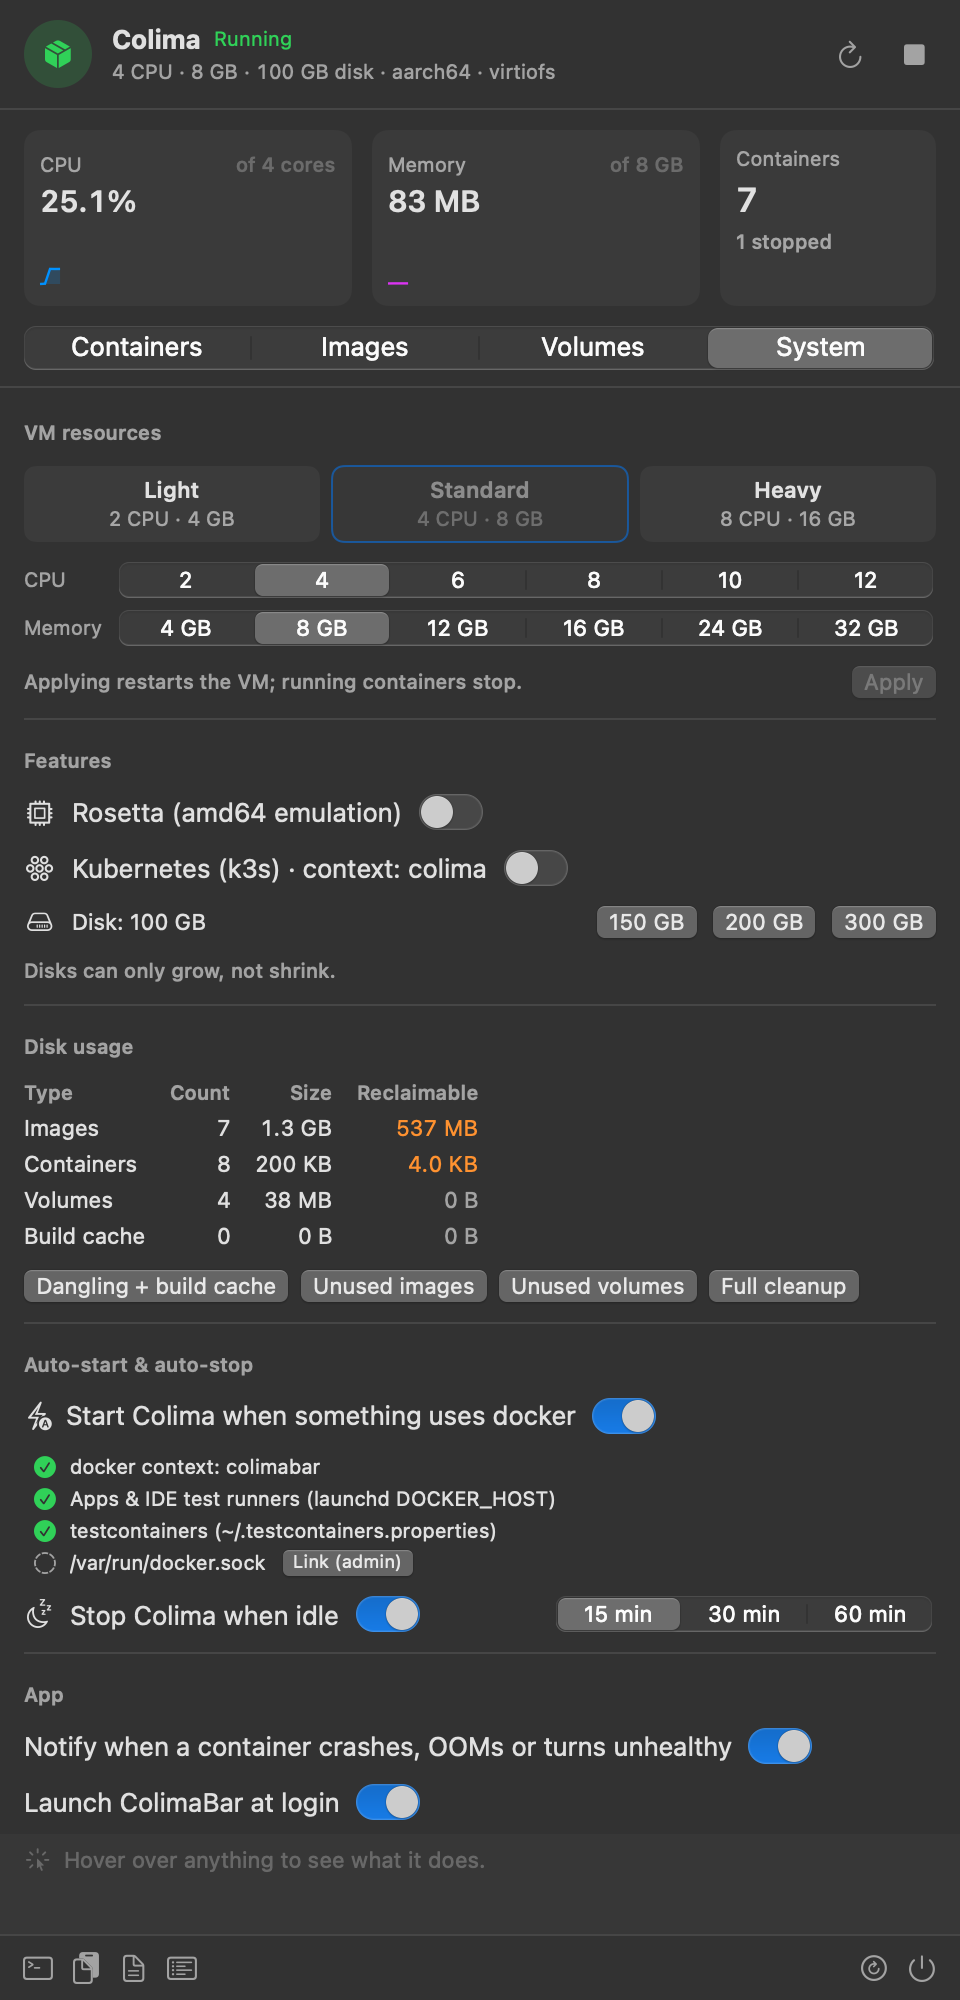
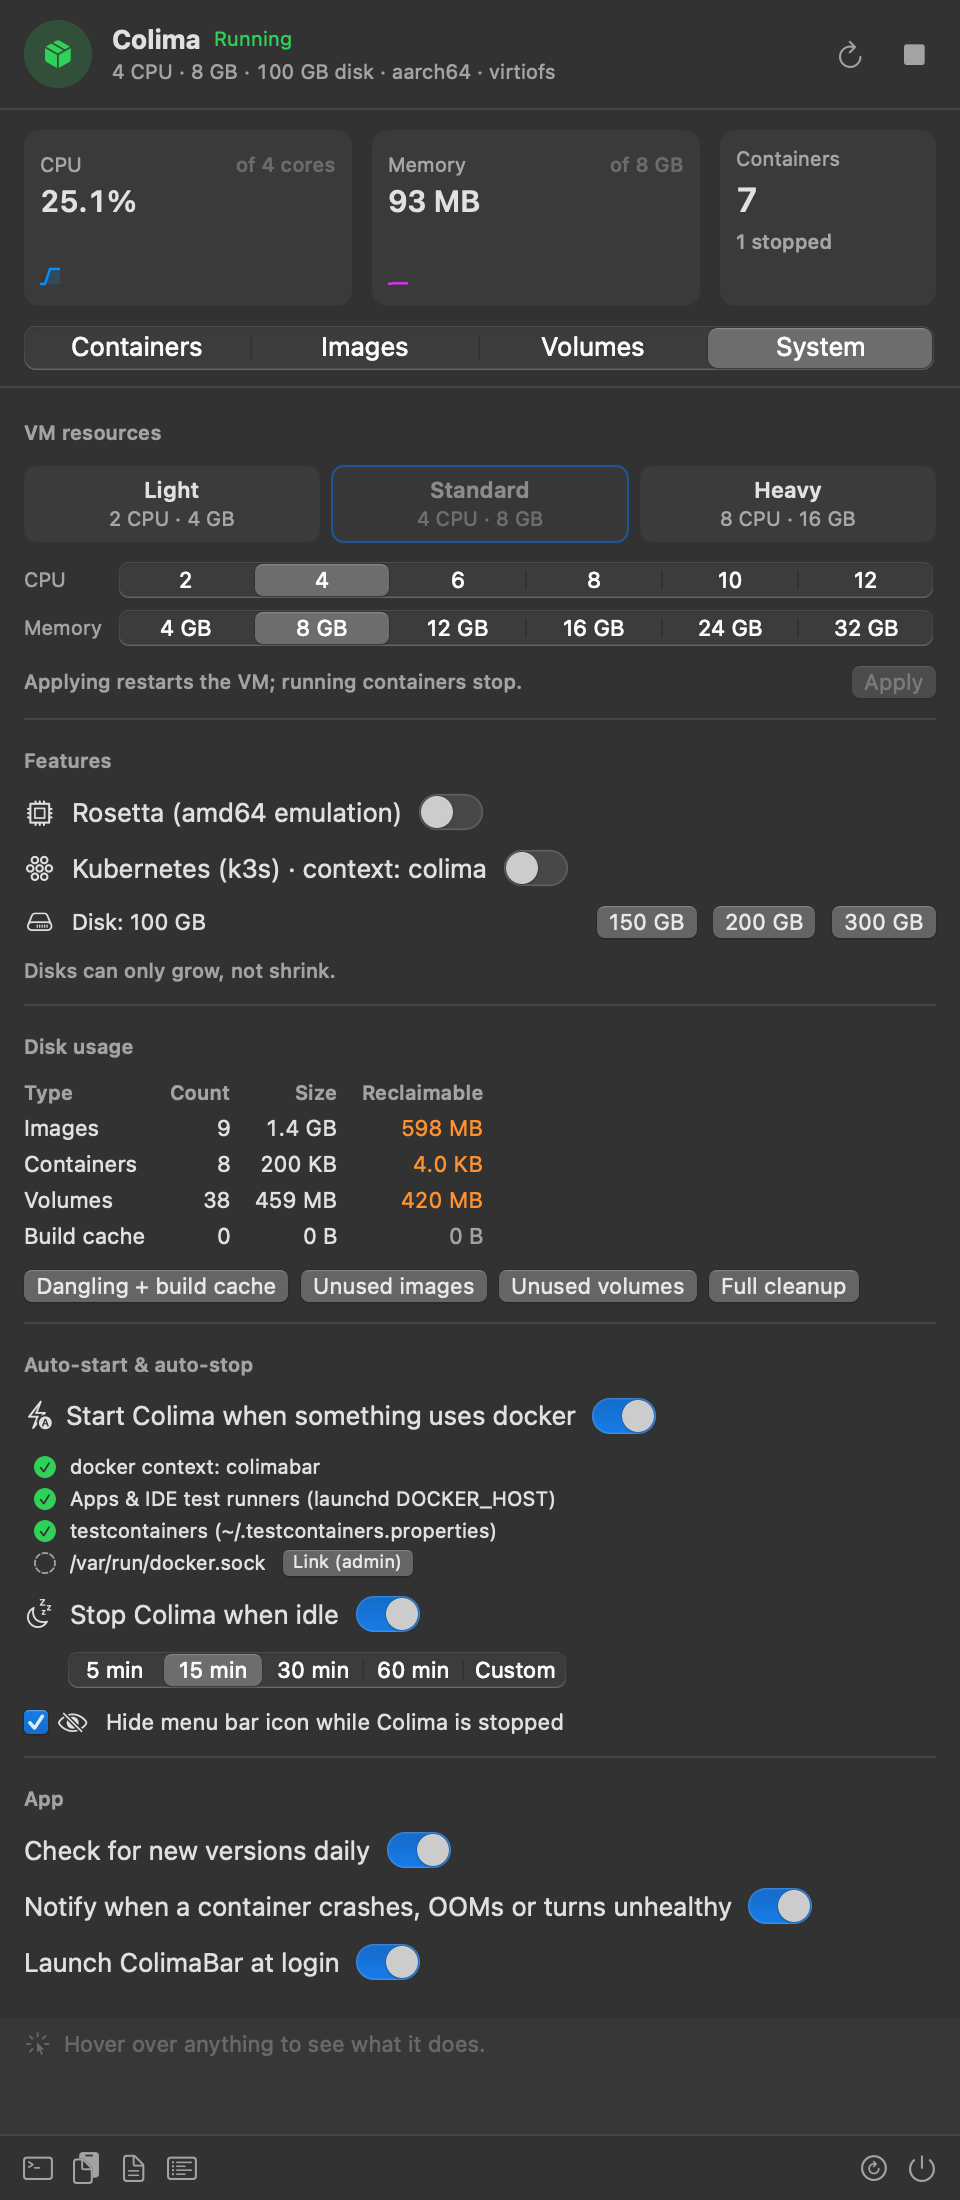
Refresh README screenshots; document update checks and new menu items
Snapshots render in an off-screen window that may be taller than the
screen, so a whole tab fits and no hover hint appears.

diff --git a/Sources/ColimaBar/App.swift b/Sources/ColimaBar/App.swift
@@ -142,6 +142,8 @@ final class AppDelegate: NSObject, NSApplicationDelegate, NSPopoverDelegate, NSW
             if let hs = ProcessInfo.processInfo.environment["COLIMABAR_SNAPSHOT_HEIGHT"], let h = Double(hs) {
                 window?.setContentSize(NSSize(width: 480, height: h))
             }
+            // Away from the mouse pointer, so no hover hint shows up in the shot.
+            window?.setFrameOrigin(NSPoint(x: -4000, y: -4000))
             DispatchQueue.main.asyncAfter(deadline: .now() + 6) { [weak self] in
                 if let v = self?.window?.contentView { self?.snapshot(v, to: args[i + 1]) }
                 NSApp.terminate(nil)
@@ -421,7 +423,7 @@ final class AppDelegate: NSObject, NSApplicationDelegate, NSPopoverDelegate, NSW
     private func showWindow() {
         popover.performClose(nil)
         if window == nil {
-            let w = NSWindow(contentRect: NSRect(x: 0, y: 0, width: 720, height: 760),
+            let w = (Self.isDebugRun ? SnapshotWindow.self : NSWindow.self).init(contentRect: NSRect(x: 0, y: 0, width: 720, height: 760),
                              styleMask: [.titled, .closable, .miniaturizable, .resizable],
                              backing: .buffered, defer: false)
             w.title = "Colima"
@@ -450,4 +452,10 @@ final class AppDelegate: NSObject, NSApplicationDelegate, NSPopoverDelegate, NSW
     func windowWillClose(_ n: Notification) { setWindowCounted(false) }
     func windowDidMiniaturize(_ n: Notification) { setWindowCounted(false) }
     func windowDidDeminiaturize(_ n: Notification) { setWindowCounted(true) }
+}
+
+/// Debug snapshots only: a window that may be taller than the screen, so a
+/// whole tab fits in one README screenshot.
+final class SnapshotWindow: NSWindow {
+    override func constrainFrameRect(_ frameRect: NSRect, to screen: NSScreen?) -> NSRect { frameRect }
 }

diff --git a/README.md b/README.md
@@ -24,18 +24,18 @@
 - **Live dashboard**: containers grouped by Compose project, health, ports, per-container CPU and memory, logs, images, volumes and VM settings in one popover.
 - **Quiet by default**: idles at ~0% CPU, can stop the VM when idle, and only notifies you when something actually breaks.
 
-Left-click the menu bar icon for the dashboard. Right-click for quick actions (start/stop, window, auto-start, launch at login, quit). Hover over anything for an explanation.
+Left-click the menu bar icon for the dashboard. Right-click for quick actions (start/stop, window, auto-start, launch at login, hide icon, check for updates, quit). Hover over anything for an explanation.
 
 ## Screenshots
 
 <table>
   <tr>
     <td width="50%"><img src="docs/screenshots/images.png" alt="Images tab: sizes, in-use badges, prune"></td>
-    <td width="50%"><img src="docs/screenshots/system.png" alt="System tab: VM resources, features, disk usage, auto-start and auto-stop"></td>
+    <td width="50%"><img src="docs/screenshots/system.png" alt="System tab: VM resources, features, disk usage, auto-start, auto-stop presets, hide icon, update check"></td>
   </tr>
   <tr>
     <td align="center"><b>Images</b>: sizes, what's in use, one-click prune</td>
-    <td align="center"><b>System</b>: VM presets, Rosetta, k3s, disk, auto-start and auto-stop</td>
+    <td align="center"><b>System</b>: VM presets, Rosetta, k3s, disk, auto-start, auto-stop and app settings</td>
   </tr>
   <tr>
     <td colspan="2"><img src="docs/screenshots/logs.png" alt="Log viewer with search, follow, timestamps and highlighted stderr"></td>
@@ -71,6 +71,7 @@ xattr -dr com.apple.quarantine ~/Applications/ColimaBar.app
 - **Alerts, failures only**: a container exits non-zero, is OOM-killed or turns unhealthy, with **View logs** and **Restart** buttons; or an action fails. Nothing for routine start/stop.
 - **Profiles**: if you have more than one Colima profile, a picker appears; otherwise it stays hidden
 - Starts at login and relaunches itself if it ever crashes. Single instance. ⌘R refresh, ⌘F filter.
+- Tells you once when a new version is out (checks GitHub daily; turn it off on the System tab), and shows a download button in the dashboard.
 
 ## Auto-start: how docker clients reach Colima
 
